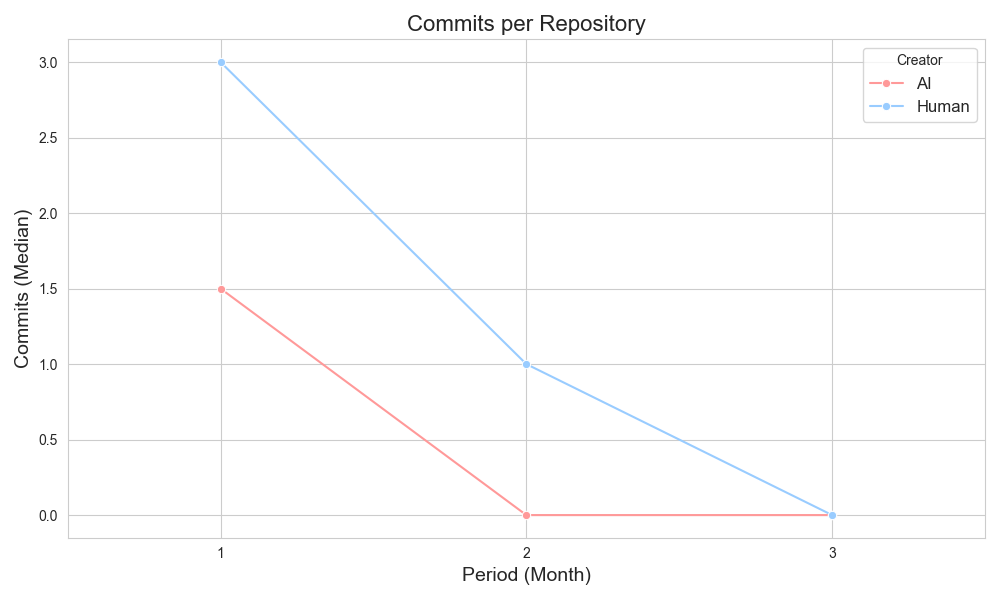
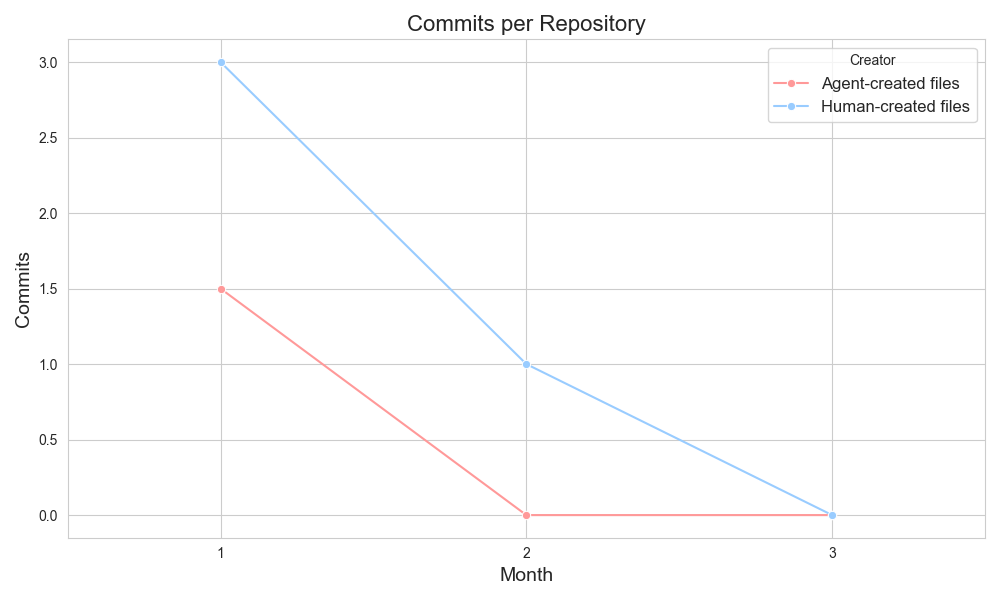
RQ1の修正，出力する図の変更

Changed region(s): [[0.775, 0.09, 0.961, 0.21], [0.465, 0.93, 0.589, 0.99], [0.0, 0.36, 0.031, 0.6]]

diff --git a/src/RQ1_analyze.py b/src/RQ1_analyze.py
@@ -521,14 +521,14 @@ def run_analysis_process(df, all_files_df, output_dir, analysis_end_date, suffix
     # 2. 変更割合の推移
     # ファイルごとに月ごとの平均変更割合を計算
     df_size['file_id'] = df_size['repository_name'] + "::" + df_size['file_name']
-    df_ratio_monthly = df_size.groupby(['file_id', 'month_num', 'file_created_by'])['change_ratio'].mean().reset_index()
+    df_ratio_monthly = df_size.groupby(['file_id', 'month_num', 'file_created_by'])['change_ratio'].median().reset_index()
     
     df_ratio_filtered = df_ratio_monthly[df_ratio_monthly['month_num'] <= max_month_limit]
 
     create_monthly_trend_violinplot(
         df_ratio_filtered,
         'change_ratio',
-        "Average Change Ratio per File per Month",
+        "Change Ratio per File",
         "Change Ratio(%)",
         os.path.join(output_dir, f"RQ1_monthly_change_ratio_trend{suffix}.png"),
         max_month_limit
@@ -827,7 +827,7 @@ def create_weekly_trend_boxplot(ai_df, human_df, output_path):
     plt.ylim(0, 5)
     
     plt.title("Weekly Commit Count Trend", fontsize=16)
-    plt.xlabel("Period (Week)", fontsize=14)
+    plt.xlabel("Week", fontsize=14)
     plt.ylabel("Commit Count", fontsize=14)
     plt.legend(title="Creator", fontsize=12)
     
@@ -854,6 +854,12 @@ def create_monthly_trend_lineplot(df, value_col, title, ylabel, output_path, max
     # 月を1始まりにする
     df['Month'] = df['month_num'] + 1
     
+    # 凡例用の名前変更
+    df['Type'] = df['file_created_by'].map({
+        'AI': 'Agent-created files',
+        'Human': 'Human-created files'
+    })
+
     plt.figure(figsize=(10, 6))
     sns.set_style("whitegrid")
     
@@ -864,16 +870,16 @@ def create_monthly_trend_lineplot(df, value_col, title, ylabel, output_path, max
         data=df,
         x='Month',
         y=value_col,
-        hue='file_created_by',
-        palette={"AI": "#FF9999", "Human": "#99CCFF"},
+        hue='Type',
+        palette={"Agent-created files": "#FF9999", "Human-created files": "#99CCFF"},
         marker='o',
         estimator=np.median,
         errorbar=None
     )
     
     plt.title(title, fontsize=16)
-    plt.xlabel("Period (Month)", fontsize=14)
-    plt.ylabel(ylabel + " (Median)", fontsize=14)
+    plt.xlabel("Month", fontsize=14)
+    plt.ylabel(ylabel, fontsize=14)
     plt.legend(title="Creator", fontsize=12)
     
     # X軸の範囲設定
@@ -978,7 +984,7 @@ def create_monthly_trend_violinplot(df, value_col, title, ylabel, output_path, m
         ax.set_ylim(0, ylim)
 
     plt.title(title, fontsize=20)
-    plt.xlabel("Period (Month)", fontsize=18)
+    plt.xlabel("Month", fontsize=18)
     plt.ylabel(ylabel, fontsize=18)
     plt.legend(title="", fontsize=16, loc='upper right')
     ax.tick_params(axis='both', which='major', labelsize=14)
